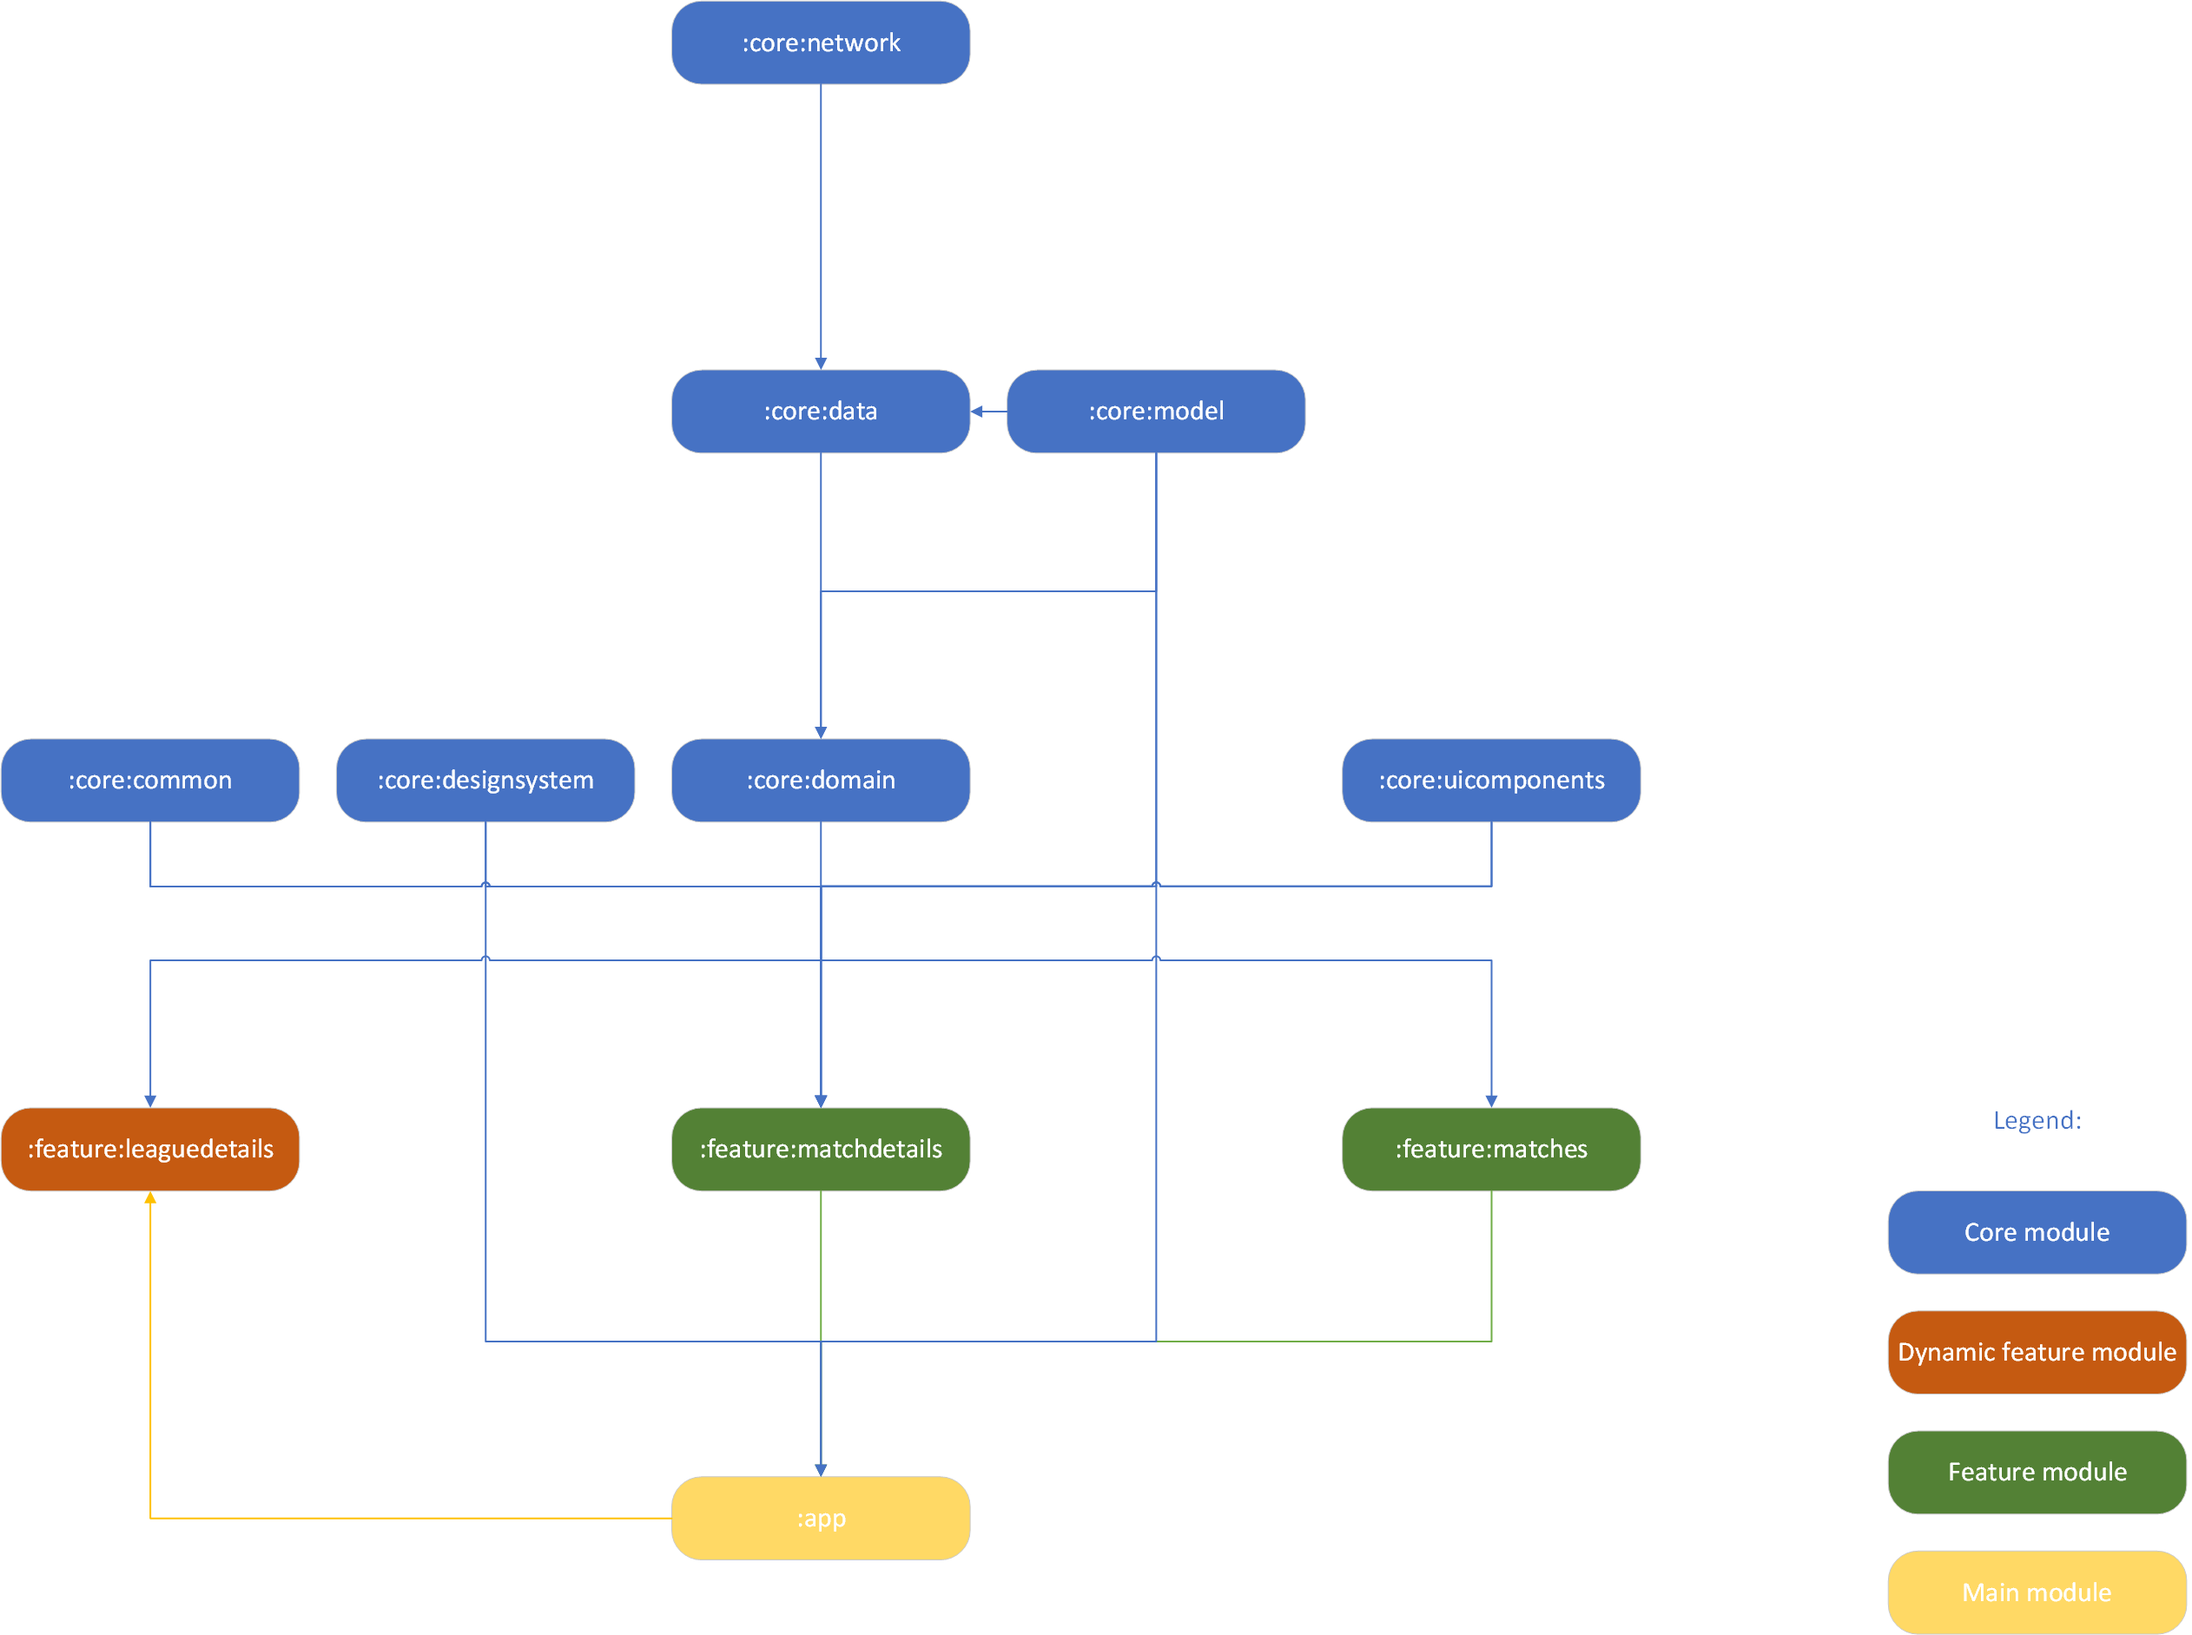
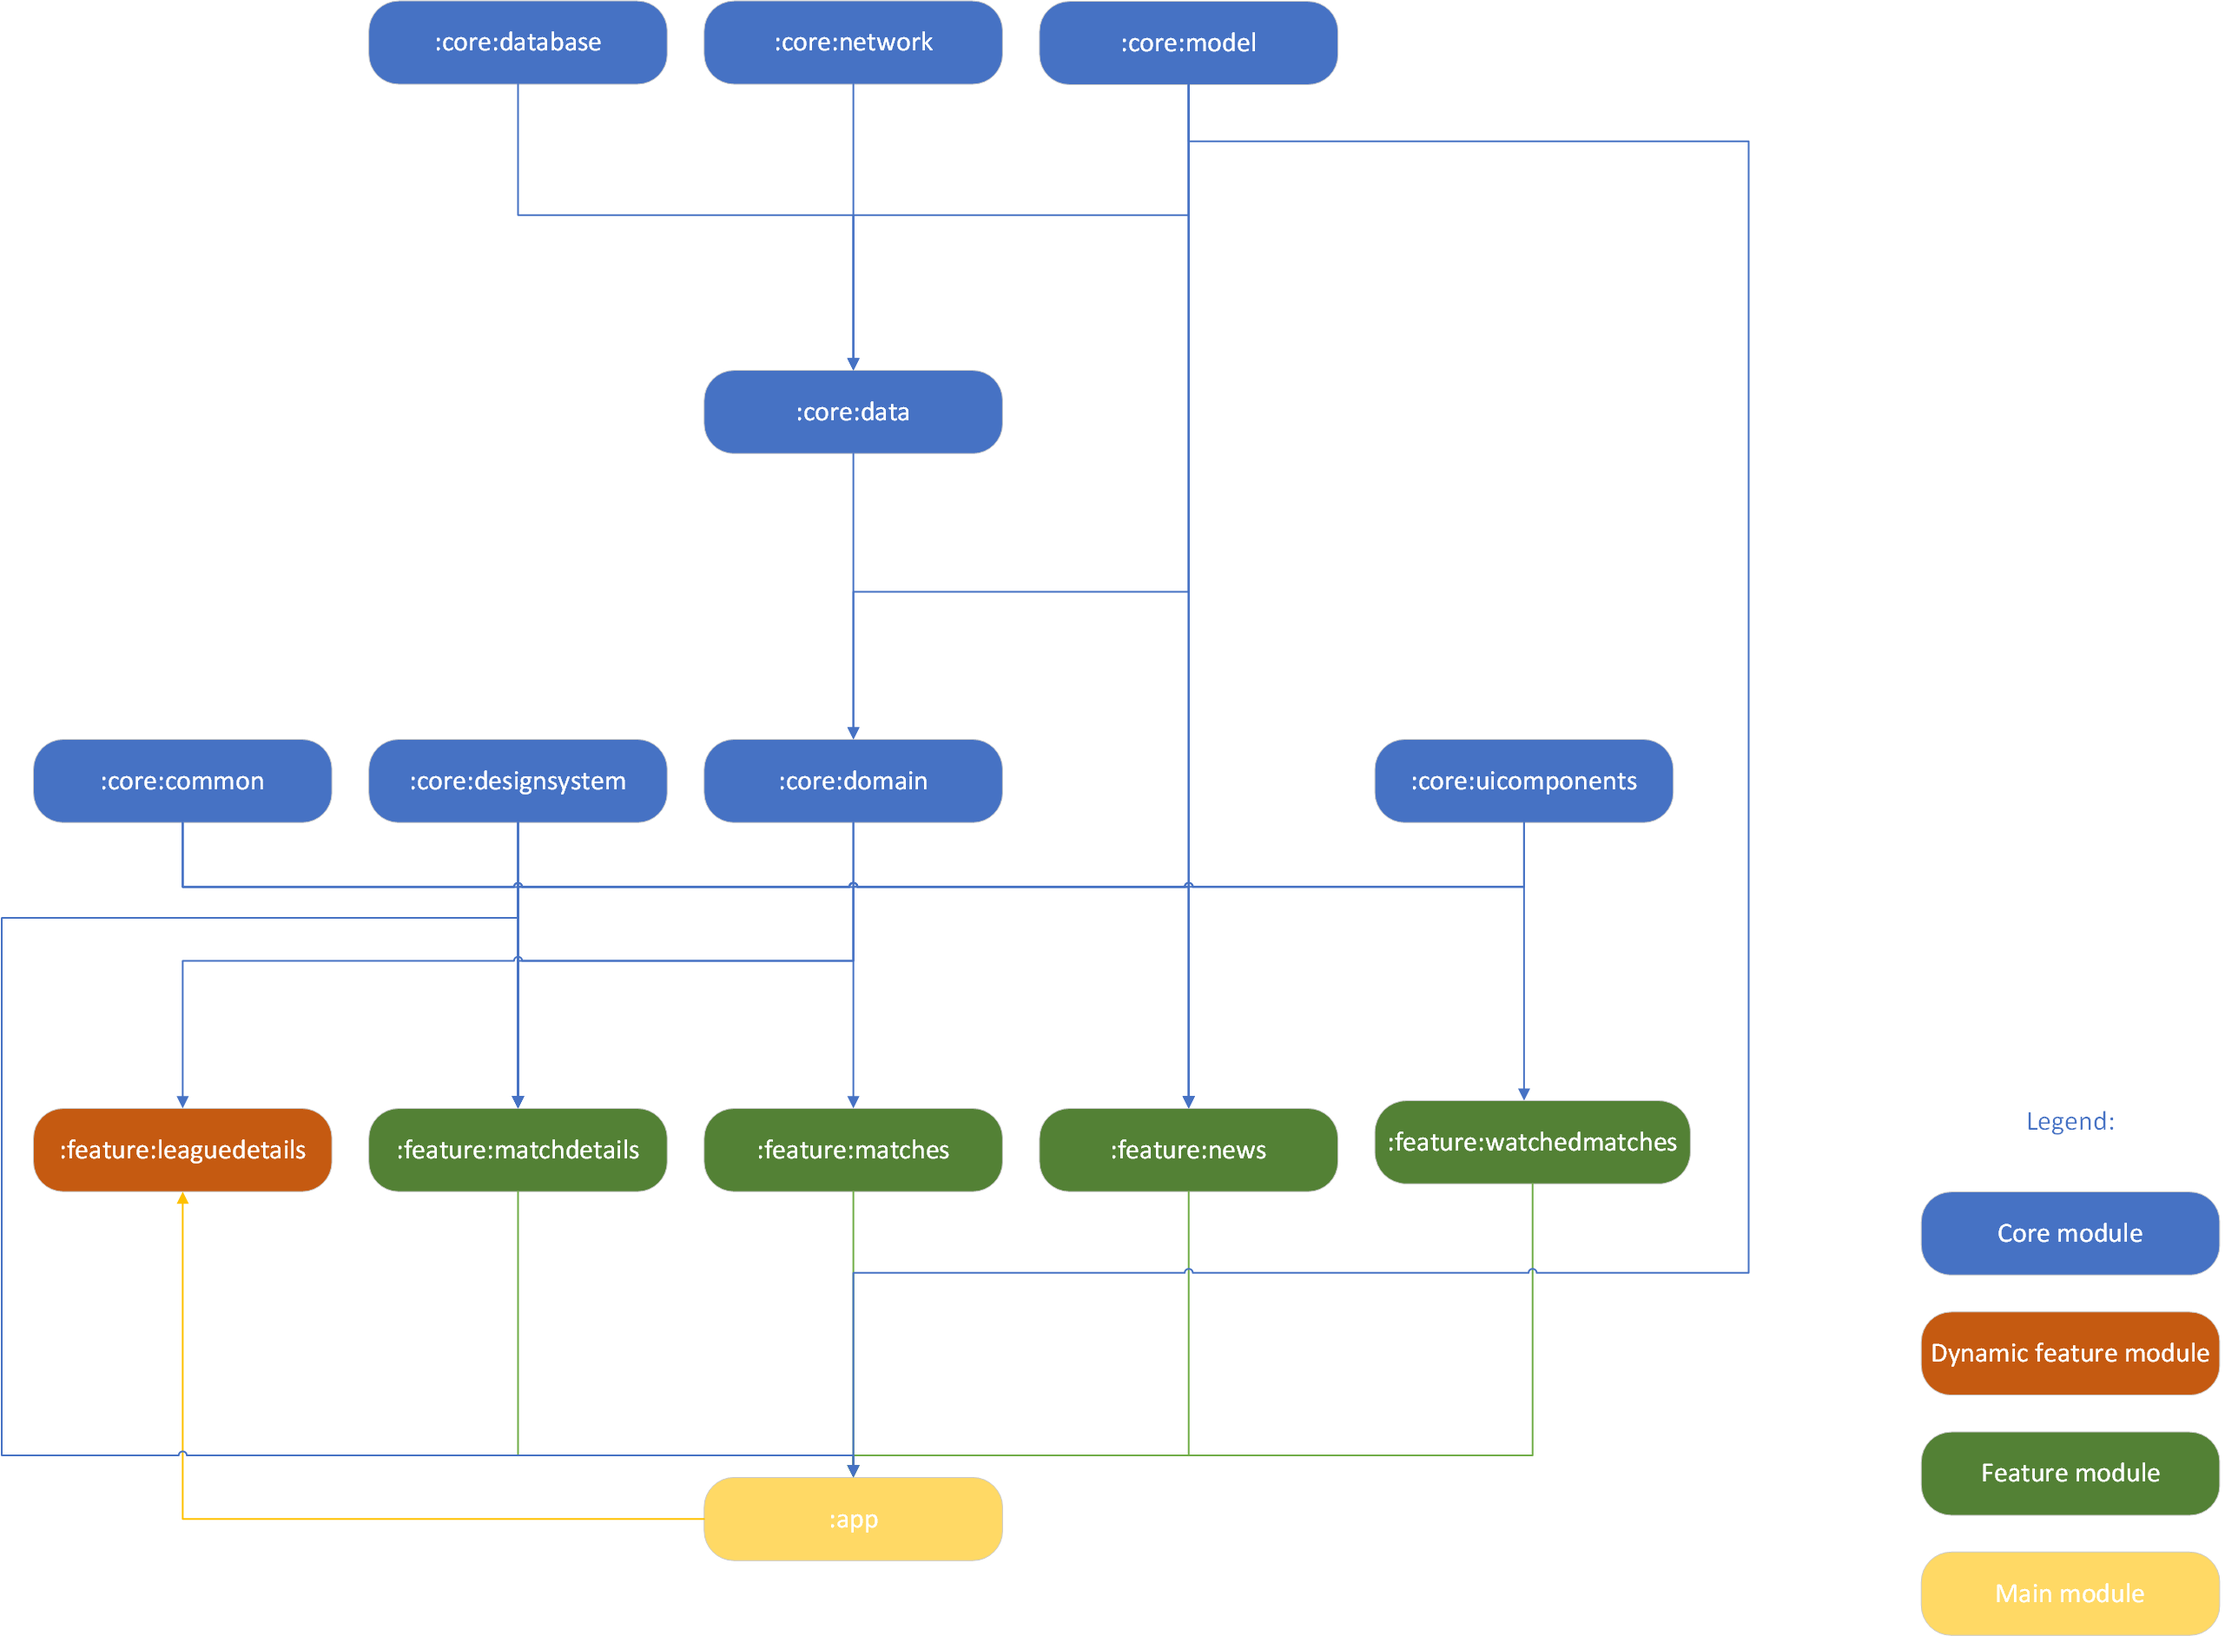
28: Updated readme

diff --git a/README.md b/README.md
@@ -1,7 +1,10 @@
 # FootballScore
 
-<b>Android application for checking the results of football games. App is currently under the development. User currently has access to two screens, 
-one with all games that are played on the selected day and the second one with game details. To create the layout I am using Jetpack Compose library and for the asynchronous code Kotlin Flow and Coroutines.</b>
+<p align="center">
+<img src="app/src/main/ic_launcher-playstore.png" alt="App icon" width="256px" height="256px">
+</p>
+
+<b>Android application for checking the results of football games, top scorers of the league, league table and reading latest sports news. To create the layout I am using Jetpack Compose library and for the asynchronous code Kotlin Flow and Coroutines.</b>
 
 ### Table of contents
 * [Used REST API](#used-rest-api)
@@ -9,7 +12,6 @@ one with all games that are played on the selected day and the second one with g
 * [Supported Android versions](#supported-android-versions)
 * [Tech stack](#tech-stack)
 * [Architecture and modularization](#architecture-and-modularization)
-* [Plans for future](#plans-for-future)
 * [App design](#app-design)
 
 ### Used REST API
@@ -21,7 +23,11 @@ In this app I am using [football-data.org](https://www.football-data.org/documen
 To build and start the app on the device:
 
 * Create authorization key required by the REST API on this website [football-data.org](https://www.football-data.org/documentation/quickstart)
-* Paste authorization key to the gradle.properties file (Directory of the file: C:\Users\username\.gradle): API_KEY=your_api_key
+* Create authorization key required by the news REST API on this website [newsapi.org](https://newsapi.org/)
+* Paste authorization keys to the global gradle.properties file (Directory of the file: C:\Users\username\ .gradle):
+  API_KEY=your_api_key
+  NEWS_API_KEY=your_news_api_key
+* Create project on Firebase console and paste in the google-services.json to the app folder
 * open the cmd console in the root location of this project
 * run .\buildAndDeployAppBundle.bat script
 
@@ -58,6 +64,7 @@ Core modules:
 
 * common - Common code shared between all modules
 * data - module with repositories
+* database - module for local database with cached data
 * designsystem - module for set up of theme, colors, etc.
 * domain - module for use cases
 * model - module with all models used in the app
@@ -69,15 +76,18 @@ Feature modules:
 * leaguedetails - module for league details screen. It's dynamic feature module so it has to be downloaded on runtime before first usage. Dynamic feature module has access to the app module code.
 * matchdetails - module for screen with match details
 * matches - module for screen with the list of games played in the chosen day
-
-### Plans for future
-
-* Adding new screens like team details, favorite teams, favorite games, settings
-* Adding ROOM database for caching some data from REST API
+* news - module for screen with the latest sports news
+* watchedmatches - module for screen with the list of the watched matches
 
 ### App design
 
 <p align="center">
 <img src="images/list_of_games.png" alt="List of game screen">
 <img src="images/match_details.png" alt="Match details screen">
+<img src="images/league_table.png" alt="League table screen">
+<img src="images/top_scorers.png" alt="Top scorers screen">
+<img src="images/winners.png" alt="Winners of the league screen">
+<img src="images/module_installation.png" alt="Module installation screen">
+<img src="images/watched_matches.png" alt="Watched matches screen">
+<img src="images/sports_news.png" alt="Sports news screen">
 </p>
